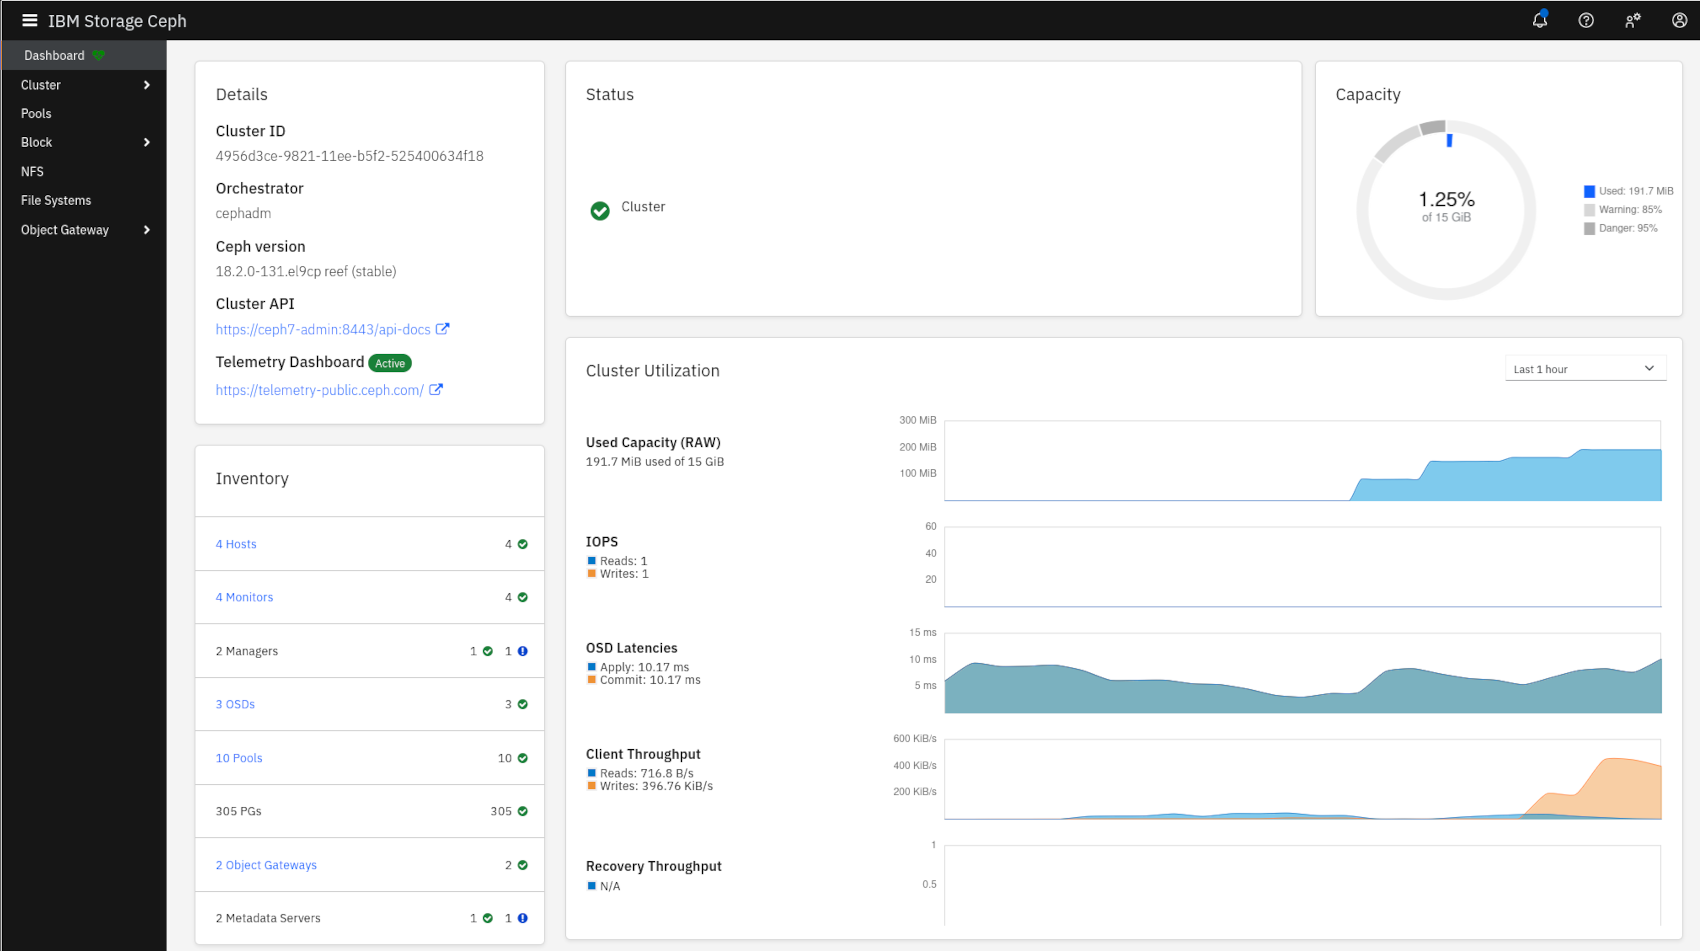
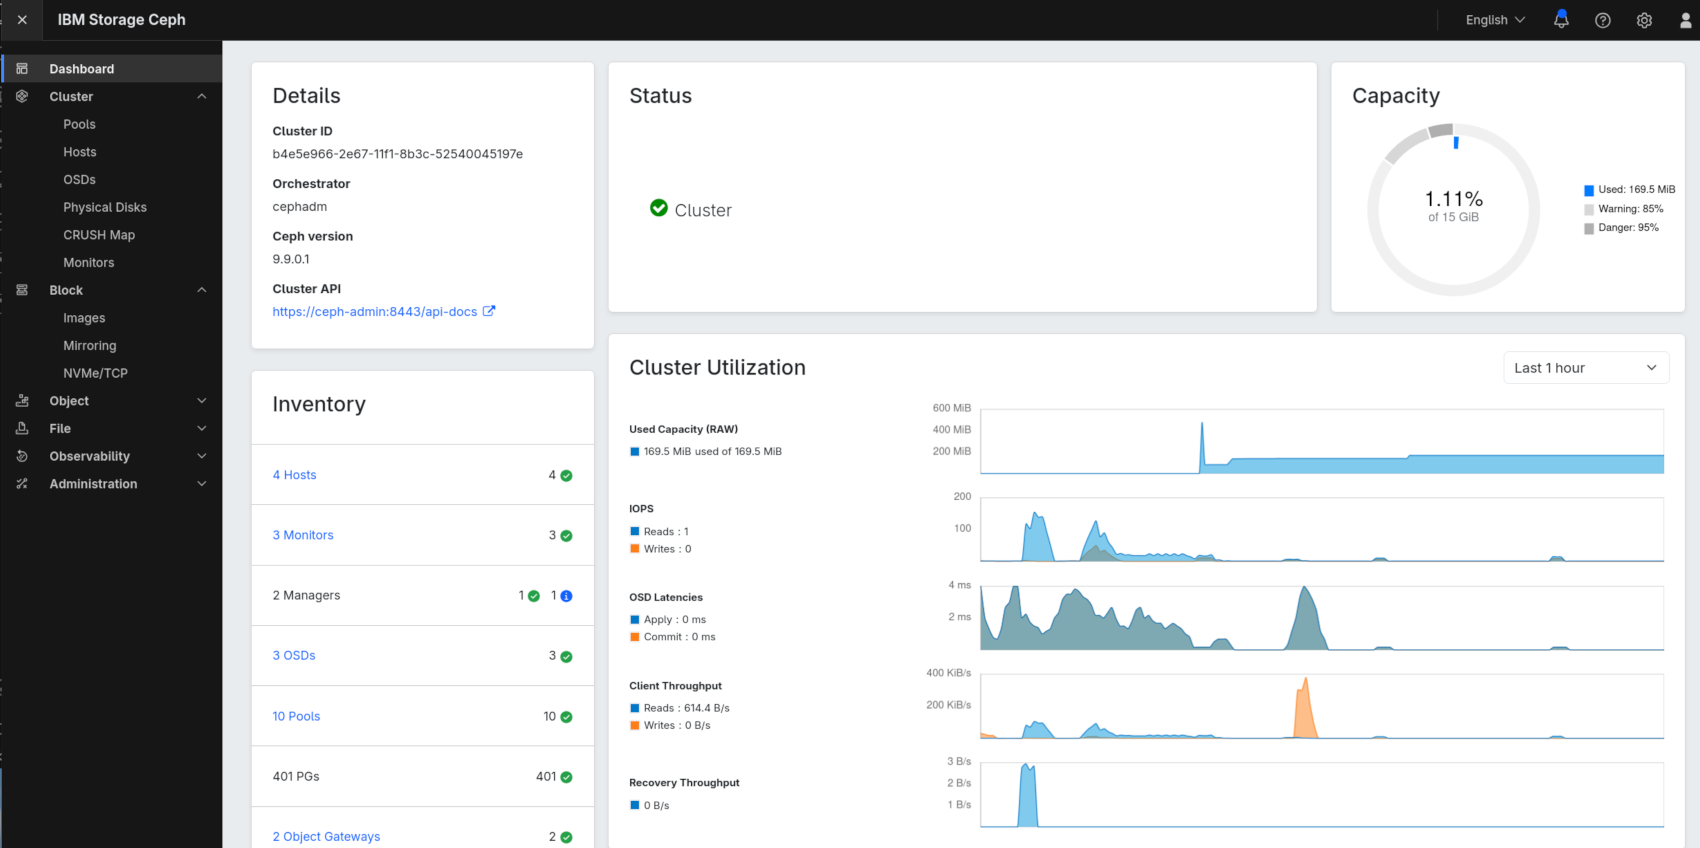
Update Screenshot and version to Ceph 9.

diff --git a/README.md b/README.md
@@ -2,7 +2,7 @@
 
 ## Scope
 
-This is an opinionated automated deployment of a IBM Storage Ceph 8.x cluster
+This is an opinionated automated deployment of a IBM Storage Ceph 9.x cluster
 installation based on RHEL9 up to the point where you run the preflight Ansible playbook.
 
 ![IBM Storage Ceph Screenshot](./IBM_Storage_Ceph.png "IBM Storage Ceph Screenshot")
